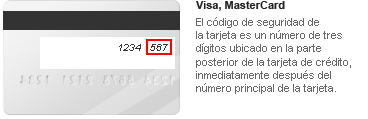
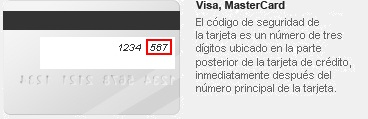
Agregada ayuda para codigo de tarjeta de credito

Changed region(s): [[0.3886, 0.3025, 0.4783, 0.479]]

diff --git a/TPE1/src/checkout-step5.html b/TPE1/src/checkout-step5.html
@@ -244,14 +244,15 @@ location.replace("http://windows.microsoft.com/en-US/internet-explorer/products/
                         </div>
                       </li>
                       <li id= "security-container">
-                        <label class="required" for="ccsave_cc_cid"><em>*</em>Codigo de seguridad</label>
-                        <div class="input-box">
-                          <div class="v-fix">
-                            <input type="text" value="" name="payment[cc_cid]" id="ccsave_cc_cid" class="input-text cvv required-entry validate-cc-cvn" title="Codigo de seguridad" disabled="" >
+                         <label class="required" for="ccsave_cc_cid"><em>*</em>Codigo de seguridad</label>
+                         <div id= "container-whatIsThis"
+                          <div class="input-box">
+                            <div class="v-fix">
+                              <input type="text" value="" name="payment[cc_cid]" id="ccsave_cc_cid" class="input-text cvv required-entry validate-cc-cvn" title="Codigo de seguridad" disabled="" >
+                            </div>
+                            <a onclick="whatIsThis();" class="cvv-what-is-this" id:"what-is-this" type="button">¿Que es esto?</a>
                           </div>
-                          
-                          <a onclick="whatIsThis();" class="cvv-what-is-this" id:"what-is-this" type="button">¿Que es esto?</a>
-                        </div>
+                      </div>
                       </li>
                     </ul>
                   </dd>

diff --git a/TPE1/src/js/checkout.js b/TPE1/src/js/checkout.js
@@ -40,10 +40,11 @@ $.when(
 	}
 
 });
+
 function whatIsThis(){
-	alert("CLICKEO");
-	//No esta funcionando apendear una imagen
-	/*$("#security-container").append("<img src = "../images/cc_security_code.jpg"></img");*/
+	if($("#help-img").length == 0){
+		$("#container-whatIsThis").append("<img id = 'help-img' src= 'images/cc_security_code.jpg'></img>");
+	}
 	return true;
 }
 /*
@@ -51,9 +52,9 @@ var myEl = document.getElementById('what-is-this');
 myEl.addEventListener('click', function() {
     alert("Hello world");
 }, false);
-
-$( "#what-is-this" ).click(function() {
+*/
+$('#what-is-this').addEventListener('click',function(){
 alert( "click" );
-});*/
+});
 
 
